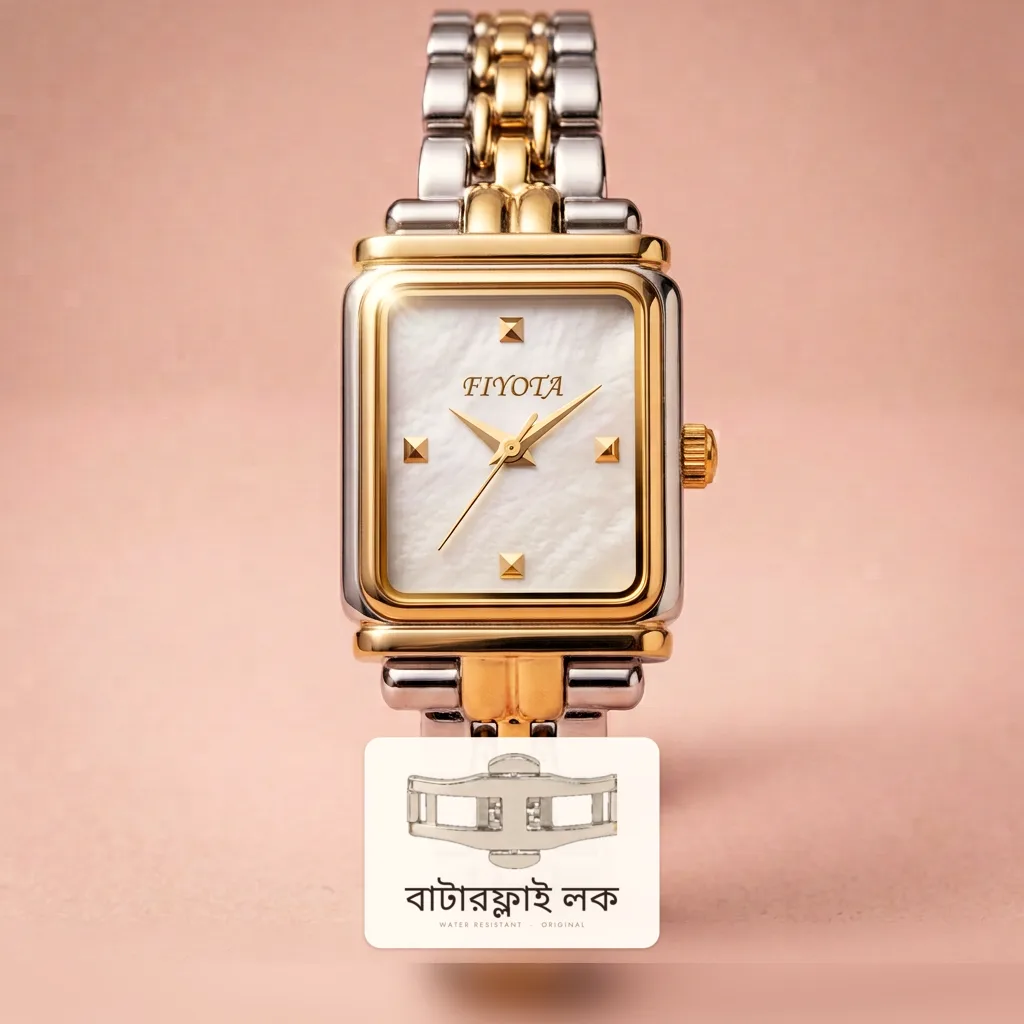
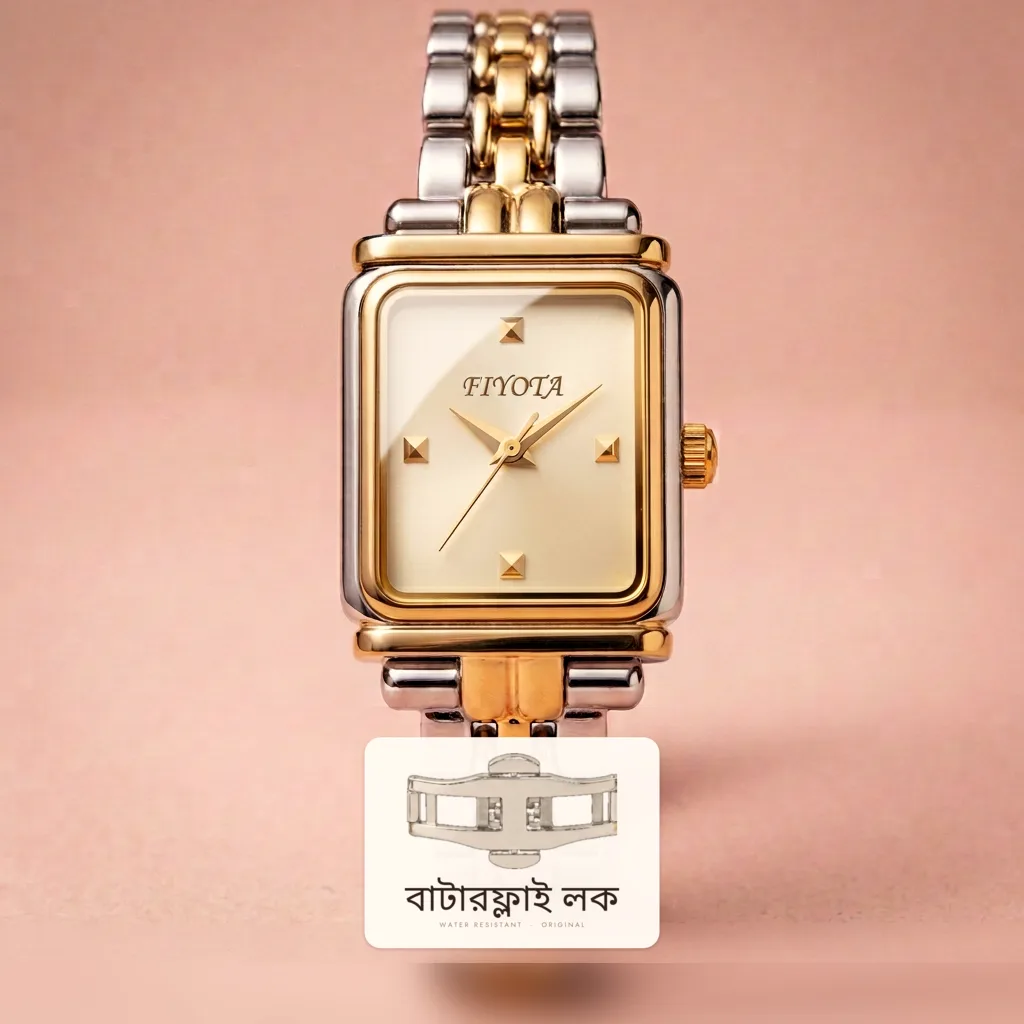
Fix FIYOTA Ivory dial design: italic wordmark, glossy ivory dial, faceted square markers, star hands

Changed region(s): [[0.3438, 0.2188, 0.625, 0.5938], [0.625, 0.25, 0.6562, 0.2812]]

diff --git a/design/deliveries/fiyota-pearl-twotone/copy.md b/design/deliveries/fiyota-pearl-twotone/copy.md
@@ -1,42 +1,46 @@
-# FIYOTA Pearl Two-Tone · প্রোডাক্ট কপি
+# FIYOTA Ivory Two-Tone · প্রোডাক্ট কপি
 
-> ছবিতে ডায়ালে **FIYOTA** — নাম হিসেবে সেটাই রাখা হয়েছে।
-> এই ভার্সনে কেস **স্টিল (সিলভার)**, ডায়ালের চারপাশের ফ্রেম/বেজেল **গোল্ড**, ডায়াল **পার্ল-হোয়াইট (মাদার অব পার্ল)**, ব্রেসলেট **টু-টোন (সিলভার স্টিল + গোল্ড)**।
-> হাতের ছবি আর ডিটেল ছবি — আপনার দেওয়া রেফারেন্স দুটোর ভঙ্গি ও ক্রপেই।
+> ডায়ালে **FIYOTA** — ইটালিক (কাত) সেরিফ অক্ষরে, ঠিক আসল ঘড়িটার মতো।
+> এই ভার্সনে কেস **স্টিল (সিলভার)**, ডায়ালের চারপাশের মোটা বেজেল **গোল্ড** (তার ভেতরে সরু সিলভার রিং), ডায়াল **গ্লসি আইভরি-শ্যাম্পেইন**, ব্রেসলেট **টু-টোন (সিলভার স্টিল + গোল্ড)**।
+> হাতের ছবি আর ডিটেল ছবি — আপনার দেওয়া রেফারেন্সগুলোর ভঙ্গি ও ক্রপেই।
 > ফিচার শুধু আপনার দেওয়া তথ্য থেকে। `[ ]` ঘরগুলো কনফার্ম করে ভরুন।
 
 ---
 
 ## ১. নাম (৩টি অপশন)
 
-1. **FIYOTA Pearl Two-Tone**
-2. **FIYOTA Pearl Royale**
-3. **FIYOTA Ivory Gold-Frame**
+1. **FIYOTA Ivory Two-Tone**
+2. **FIYOTA Champagne Classic**
+3. **FIYOTA Ivory Gold-Bevel**
 
 ## ২. এক লাইনের হুক
 
-> পার্ল-সাদা ডায়ালের চারপাশে সরু সোনালি ফ্রেম, উপরে স্টিলের ঠান্ডা কেস — আর দুই রঙের ব্রেসলেটে একসাথেই সোনা আর রুপো।
+> গ্লসি আইভরি ডায়ালে কাত হয়ে লেখা FIYOTA, চারপাশে মোটা সোনালি বেজেল — আর দুই রঙের ব্রেসলেটে একসাথেই সোনা আর রুপো।
 
 ## ৩. শর্ট ডেসক্রিপশন
 
-পার্ল-সাদা মাদার-অব-পার্ল ডায়াল, চারপাশ ঘিরে সোনালি ফ্রেম, বাইরে পলিশড স্টিল কেস।
-ডায়ালে ছোট সোনালি **FIYOTA** লেখা আর ১২, ৩, ৬, ৯টার জায়গায় চারটি সোনালি পিরামিড মার্কার।
-পাঁচ সারির জুবিলি ব্রেসলেট টু-টোন — বাইরের সারি রুপোলি স্টিল, ভেতরের সারি সোনালি, তাই এক
-ঘড়িতেই সোনালি গয়না আর স্টিলের দুটো লুক।
+গ্লসি আইভরি-শ্যাম্পেইন ডায়াল, চারপাশ ঘিরে মোটা পলিশড সোনালি বেজেল — তার বাইরে স্টিল কেস।
+ডায়ালে কাত (ইটালিক) অক্ষরে ছোট সোনালি **FIYOTA**, ১২, ৩, ৬, ৯টার জায়গায় চারটি চ্যাপ্টা
+সোনালি স্কয়ার মার্কার (প্রতিটিতে তির্যক ফ্যাসেট), আর মাঝখানে তারার মতো ছড়ানো সোনালি
+ঘণ্টা-মিনিটের হাত ও লম্বা সরু সেকেন্ড হাত। পাঁচ সারির জুবিলি ব্রেসলেট টু-টোন — বাইরের সারি
+রুপোলি স্টিল, ভেতরের সারি সোনালি।
 
 ## ৪. ডিটেইল ডেসক্রিপশন
 
 **যা দেখছেন**
 
-এখানে মূল কথা ডায়ালটা — সাদা নয়, হালকা গোলাপি-ক্রিম আভা দেওয়া পার্ল। আলো পড়লে ভেতরে
-মাদার-অব-পার্লের সূক্ষ্ম ঢেউ দেখা যায়, একেক কোণে একেক রকম। ডায়ালটা ঘিরে আছে সরু, উজ্জ্বল
-সোনালি ফ্রেম — ঠিক আসল ঘড়িটার মতো; তার বাইরে স্টিলের কেস, ১২ আর ৬টার দিকে সোনালি এন্ড
-পিস, ৩টার দিকে খাঁজকাটা সোনালি ক্রাউন। ডায়ালে সোনালি সেরিফে **FIYOTA**, নিচে সোনালি
-ঘণ্টা-মিনিটের হাত আর চুলের মতো সরু সেকেন্ড হাত।
+ডায়ালটা সাদা নয় — হালকা শ্যাম্পেইন-আইভরি, গ্লসি ফিনিশ; আলো পড়লে উপরের দিকটা নরম করে
+জ্বলে ওঠে, নিচের দিকটা একটু গাঢ়। কাঁচের নিচে ভেতরের দিক থেকে ঠিক ডায়াল ঘিরে সরু সিলভার
+রিং, তারপর মোটা পলিশড সোনালি বেজেল, আর তার বাইরে স্টিলের কেস — ১২ আর ৬টার দিকে সোনালি
+এন্ড পিস, ৩টার দিকে খাঁজকাটা সোনালি ক্রাউন।
+
+ডায়ালের উপরের অংশে ছোট করে কাত অক্ষরে **FIYOTA** — বড় নয়, চোখে পড়ার মতো পরিপাটি।
+১২/৩/৬/৯-এ চারটি চ্যাপ্টা সোনালি স্কয়ার মার্কার, প্রতিটির উপর তির্যক একটা ফ্যাসেট — এক
+কোণে আলো, অন্য কোণে ছায়া। মাঝখানে হাতগুলো ছড়িয়ে আছে তারার মতো: চ্যাপ্টা ডার্ট-টিপ
+ঘণ্টার হাত, লম্বা সরু মিনিটের হাত, আর চুলের মতো সরু সেকেন্ড হাত।
 
 ব্রেসলেট পাঁচ সারির জুবিলি, দুই রঙে — বাইরের সারি পলিশড স্টিল, ভেতরের সারি উষ্ণ সোনালি।
-হাত নাড়ালে আলো একবার রুপোলি, একবার সোনালি হয়ে ঝিকমিক করে। পার্ল ডায়ালের সাদা-সোনালি
-টোনের সাথে এই টু-টোন ব্রেসলেটই ঘড়িটাকে "গয়না" আর "স্টিল ঘড়ি" — দুই জগতের মাঝখানে রাখে।
+হাত নাড়ালে আলো একবার রুপোলি, একবার সোনালি হয়ে ঝিকমিক করে।
 
 **যা যাচাই করা যায়**
 
@@ -50,9 +54,9 @@
 | | |
 |---|---|
 | ব্র্যান্ড | FIYOTA |
-| কেস | রেক্ট্যাঙ্গুলার পলিশড স্টিল · গোল্ড ফ্রেম/বেজেল · গোল্ড লাগ ও ক্রাউন · `[মাপ]` |
-| ডায়াল | পার্ল-হোয়াইট মাদার-অব-পার্ল, গোল্ড FIYOTA ওয়ার্ডমার্ক, ৪টি গোল্ড পিরামিড মার্কার (১২/৩/৬/৯) |
-| হাত | গোল্ড আওয়ার, মিনিট + হেয়ারলাইন সেকেন্ড |
+| কেস | রেক্ট্যাঙ্গুলার পলিশড স্টিল · মোটা গোল্ড বেজেল · গোল্ড লাগ ও ক্রাউন · `[মাপ]` |
+| ডায়াল | গ্লসি আইভরি-শ্যাম্পেইন · ইটালিক FIYOTA ওয়ার্ডমার্ক · ৪টি ফ্যাসেটেড গোল্ড স্কয়ার মার্কার (১২/৩/৬/৯) |
+| হাত | গোল্ড ঘণ্টা (ডার্ট টিপ), লম্বা মিনিট + হেয়ারলাইন সেকেন্ড |
 | গ্লাস | `[মিনারেল]` |
 | মুভমেন্ট | `[কোয়ার্টজ]` |
 | ব্রেসলেট | ৫-রো জুবিলি, **টু-টোন** — সিলভার স্টিল + গোল্ড |
@@ -61,20 +65,20 @@
 | গ্যারান্টি | চেন কালার গ্যারান্টি · ৭ দিন রিপ্লেসমেন্ট · ৬ মাস ওয়ারেন্টি |
 | বক্সে | ঘড়ি + `[বক্স / ওয়ারেন্টি কার্ড]` |
 
-**কার জন্য** — যে মেয়েটি সাদা-সোনালি নরম লুক পছন্দ করে। অফিসের শাড়ি-কুর্তা থেকে
-জিন্স-টপ — পার্ল ডায়াল সব জায়গায় মিশে যায়, আর টু-টোন ব্রেসলেটে সোনা-রুপো দুটোই কভার।
+**কার জন্য** — যে মেয়েটি নরম আইভরি-সোনালি লুক পছন্দ করে। অফিসের শাড়ি-কুর্তা থেকে
+জিন্স-টপ — ডায়ালটা সব জায়গায় মিশে যায়, আর টু-টোন ব্রেসলেটে সোনা-রুপো দুটোই কভার।
 
 ## ৫. কীওয়ার্ড (সার্চ / অ্যাড)
 
-`pearl dial watch women`, `mother of pearl watch`, `two tone watch women`, `gold frame watch`,
+`ivory dial watch women`, `champagne dial watch`, `two tone watch women`, `gold bezel watch`,
 `gold and silver watch women`, `square dial watch`, `luxury watch for her`, `butterfly lock watch`,
 `office wear watch`, `gift for her`, `water resistant watch`, `FIYOTA watch two tone`
 
 ## ৬. অল্ট টেক্সট
 
-- **main:** "FIYOTA মেয়েদের স্কয়ার ঘড়ি — স্টিল কেস, পার্ল-সাদা ডায়ালে সোনালি ফ্রেম ও FIYOTA লেখা, টু-টোন সিলভার-গোল্ড ব্রেসলেট, বাটারফ্লাই লক"
-- **wrist:** "মেয়ের কব্জিতে FIYOTA পার্ল টু-টোন ঘড়ি — সোনালি ফ্রেমের পার্ল ডায়াল, সিলভার ও গোল্ড জুবিলি ব্রেসলেট"
-- **detail:** "FIYOTA Pearl Two-Tone ঘড়ির ফ্রন্ট ক্লোজ-আপ — পার্ল ডায়াল, গোল্ড ফ্রেম, সোনালি পিরামিড মার্কার, ক্রাউন ও টু-টোন জুবিলি ব্রেসলেট"
+- **main:** "FIYOTA মেয়েদের স্কয়ার ঘড়ি — স্টিল কেস, মোটা সোনালি বেজেল, গ্লসি আইভরি ডায়ালে কাত অক্ষরে FIYOTA নাম, টু-টোন সিলভার-গোল্ড ব্রেসলেট, বাটারফ্লাই লক"
+- **wrist:** "মেয়ের কব্জিতে FIYOTA আইভরি টু-টোন ঘড়ি — সোনালি বেজেলের আইভরি ডায়াল, সিলভার ও গোল্ড জুবিলি ব্রেসলেট"
+- **detail:** "FIYOTA Ivory Two-Tone ঘড়ির ফ্রন্ট ক্লোজ-আপ — গ্লসি আইভরি ডায়াল, ফ্যাসেটেড সোনালি স্কয়ার মার্কার, সোনালি বেজেল, ক্রাউন ও টু-টোন জুবিলি ব্রেসলেট"
 
 ---
 
@@ -82,9 +86,9 @@
 
 | ছবি | ফাইল | সাইজ | JPG | WebP |
 |---|---|---|---|---|
-| Main (১:১, বাটারফ্লাই লক কার্ডসহ) | `fiyota-pearl-twotone-square-main` | ১০২৪×১০২৪ | ১২৫KB | ৪১KB |
+| Main (১:১, বাটারফ্লাই লক কার্ডসহ) | `fiyota-pearl-twotone-square-main` | ১০২৪×১০২৪ | ১৩০KB | ৪১KB |
 | Wrist (১:১) | `fiyota-pearl-twotone-square-wrist` | ১০২৪×১০২৪ | ১৫০KB | ৫৯KB |
-| Detail (১:১) | `fiyota-pearl-twotone-square-detail` | ১০২৪×১০২৪ | ১১৪KB | ৩৬KB |
+| Detail (১:১) | `fiyota-pearl-twotone-square-detail` | ১০২৪×১০২৪ | ১২২KB | ৩৮KB |
 
 - সব ছবি **১:১**, sRGB, metadata stripped · গ্রেড `miqa-warm`
 - কাঁচে ফোন/ক্যামেরার রিফ্লেকশন নেই · ডায়ালে ঘণ্টা + মিনিট + সেকেন্ড — তিনটাই আছে

diff --git a/design/deliveries/fiyota-pearl-twotone/README.md b/design/deliveries/fiyota-pearl-twotone/README.md
@@ -1,6 +1,6 @@
-# FIYOTA Pearl Two-Tone · মেয়েদের ঘড়ি
+# FIYOTA Ivory Two-Tone · মেয়েদের ঘড়ি
 
-স্টিল (সিলভার) কেস + **গোল্ড ডায়াল ফ্রেম** + পার্ল-সাদা মাদার-অব-পার্ল ডায়াল + **টু-টোন** (সিলভার স্টিল ও গোল্ড) পাঁচ সারির জুবিলি ব্রেসলেট।
+স্টিল (সিলভার) কেস + **মোটা গোল্ড বেজেল** (ভেতরে সরু সিলভার রিং) + **গ্লসি আইভরি-শ্যাম্পেইন ডায়াল** (কাত অক্ষরে FIYOTA, ফ্যাসেটেড সোনালি স্কয়ার মার্কার, তারার মতো হাত) + **টু-টোন** (সিলভার স্টিল ও গোল্ড) পাঁচ সারির জুবিলি ব্রেসলেট।
 
 ৩টি ছবি, সব **১:১ (১০২৪×১০২৪)**, গ্রেড `miqa-warm`, কাঁচে কোনো ফোন-রিফ্লেকশন নেই।
 হাতের ছবি আর ডিটেল ছবি — আপনার দেওয়া রেফারেন্স দুটোর স্টাইলেই।
@@ -8,7 +8,7 @@
 ## ডাউনলোড লিংক
 
 ### Main hero (১:১, বাটারফ্লাই লক কার্ডসহ)
-- JPG: 125 KB · WebP: 41 KB
+- JPG: 130 KB · WebP: 41 KB
 - ফাইল পেজ (ডাউনলোড ↓ আইকন): https://github.com/abdurrahman58nayem/Watch/blob/arena/c068212c-watch/design/deliveries/fiyota-pearl-twotone/fiyota-pearl-twotone-square-main.jpg
 - ডাইরেক্ট: https://raw.githubusercontent.com/abdurrahman58nayem/Watch/arena/c068212c-watch/design/deliveries/fiyota-pearl-twotone/fiyota-pearl-twotone-square-main.jpg
 - WebP: https://github.com/abdurrahman58nayem/Watch/blob/arena/c068212c-watch/design/deliveries/fiyota-pearl-twotone/fiyota-pearl-twotone-square-main.webp
@@ -20,7 +20,7 @@
 - WebP: https://github.com/abdurrahman58nayem/Watch/blob/arena/c068212c-watch/design/deliveries/fiyota-pearl-twotone/fiyota-pearl-twotone-square-wrist.webp
 
 ### Detail / ফ্রন্ট ক্লোজ-আপ
-- JPG: 114 KB · WebP: 36 KB
+- JPG: 122 KB · WebP: 38 KB
 - ফাইল পেজ (ডাউনলোড ↓ আইকন): https://github.com/abdurrahman58nayem/Watch/blob/arena/c068212c-watch/design/deliveries/fiyota-pearl-twotone/fiyota-pearl-twotone-square-detail.jpg
 - ডাইরেক্ট: https://raw.githubusercontent.com/abdurrahman58nayem/Watch/arena/c068212c-watch/design/deliveries/fiyota-pearl-twotone/fiyota-pearl-twotone-square-detail.jpg
 - WebP: https://github.com/abdurrahman58nayem/Watch/blob/arena/c068212c-watch/design/deliveries/fiyota-pearl-twotone/fiyota-pearl-twotone-square-detail.webp
